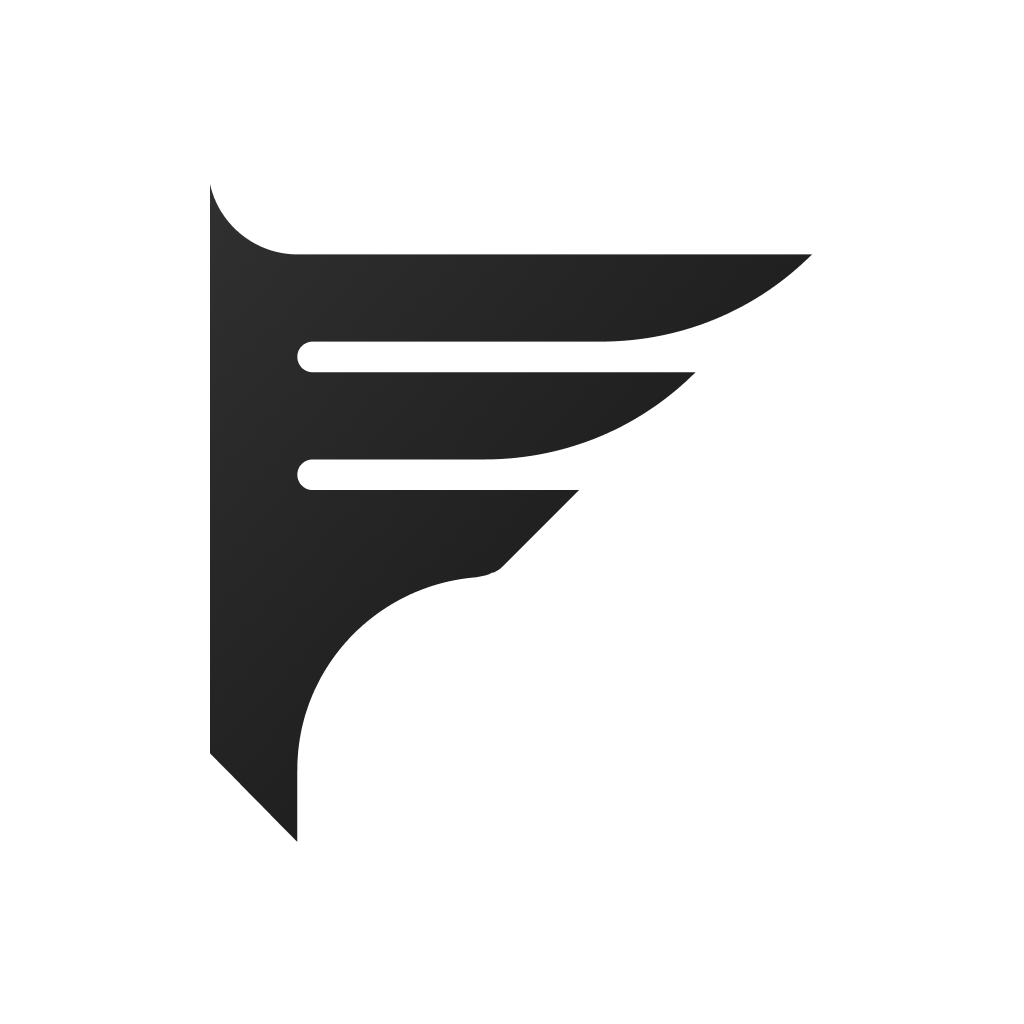
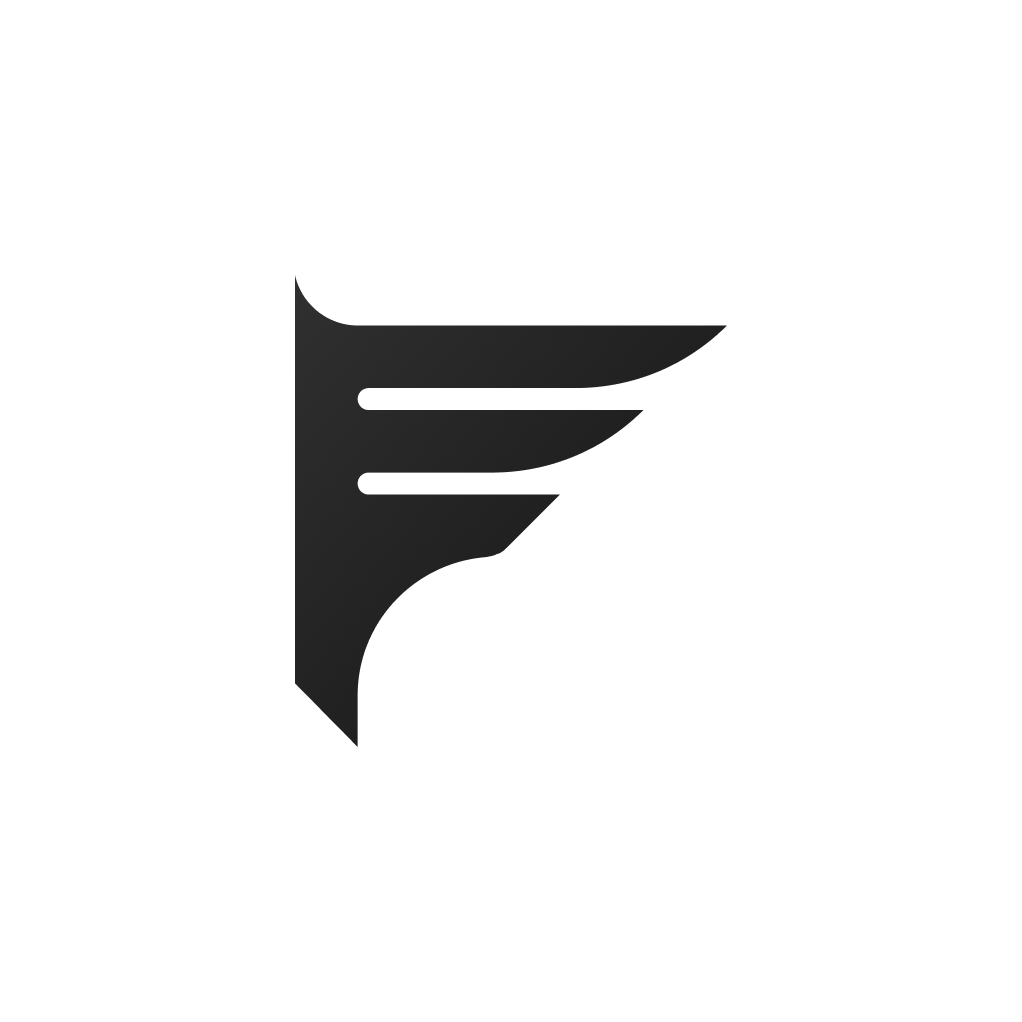
feat: remove unused code and fix style issues

diff --git a/lib/ui/pages/splash/splash_page.dart b/lib/ui/pages/splash/splash_page.dart
@@ -1,4 +1,5 @@
 import 'package:flutter/material.dart';
+import 'package:get/get.dart';
 
 import '../../mixins/mixins.dart';
 import '../pages.dart';
@@ -29,8 +30,29 @@ class _SplashPageState extends State<SplashPage> with NavigationManager, SystemN
     return Scaffold(
       body: Container(
         alignment: Alignment.center,
-        padding: const EdgeInsets.symmetric(horizontal: 96.0),
-        child: Image.asset('lib/ui/assets/launcher_icon/icon.png'),
+        decoration: BoxDecoration(
+          gradient: LinearGradient(
+            colors: Get.isDarkMode
+                ? [
+                    const Color(0xFF303030),
+                    const Color(0xFF131313),
+                  ]
+                : [
+                    const Color(0xFFFCFCFC),
+                    const Color(0xFFAFAFAF),
+                  ],
+            begin: Alignment.topLeft,
+            end: Alignment.bottomRight,
+          ),
+        ),
+        padding: const EdgeInsets.symmetric(horizontal: 105),
+        child: Image.asset(
+          Get.isDarkMode
+              ? 'lib/ui/assets/splash/splash_dark_foreground.png'
+              : 'lib/ui/assets/splash/splash_light_foreground.png',
+          width: 329,
+          height: 301,
+        ),
       ),
     );
   }

diff --git a/lib/ui/pages/home/home_page.dart b/lib/ui/pages/home/home_page.dart
@@ -20,13 +20,11 @@ class HomePage extends StatefulWidget {
 class _HomePageState extends State<HomePage>
     with NavigationManager, SingleTickerProviderStateMixin, SystemNavigationUIOverlays {
   late final PageController _pageController;
-  late int _selectedIndex;
 
   @override
   void initState() {
     handleNavigationWithArgs(widget.presenter.navigateToWithArgsStream);
 
-    _selectedIndex = 0;
     _pageController = PageController(initialPage: 0);
 
     super.initState();

diff --git a/lib/presentation/presenters/getx_splash_presenter.dart b/lib/presentation/presenters/getx_splash_presenter.dart
@@ -16,7 +16,7 @@ class GetxSplashPresenter extends GetxController with NavigationManager implemen
       final UserEntity account = await loadCurrentUser.load();
       navigateToWithArgs = account.uid.isNotEmpty
           ? const NavigationArguments(route: '/home')
-          : const NavigationArguments(route: '/login');
+          : const NavigationArguments(route: '/home');
     } catch (error) {
       navigateToWithArgs = const NavigationArguments(route: '/login');
     }

diff --git a/lib/main/main.dart b/lib/main/main.dart
@@ -28,7 +28,7 @@ class MyApp extends StatelessWidget {
       debugShowCheckedModeBanner: false,
       enableLog: true,
       theme: AppTheme.lightThemeData,
-      initialRoute: '/home',
+      initialRoute: '/',
       getPages: [
         GetPage(
           name: '/',
